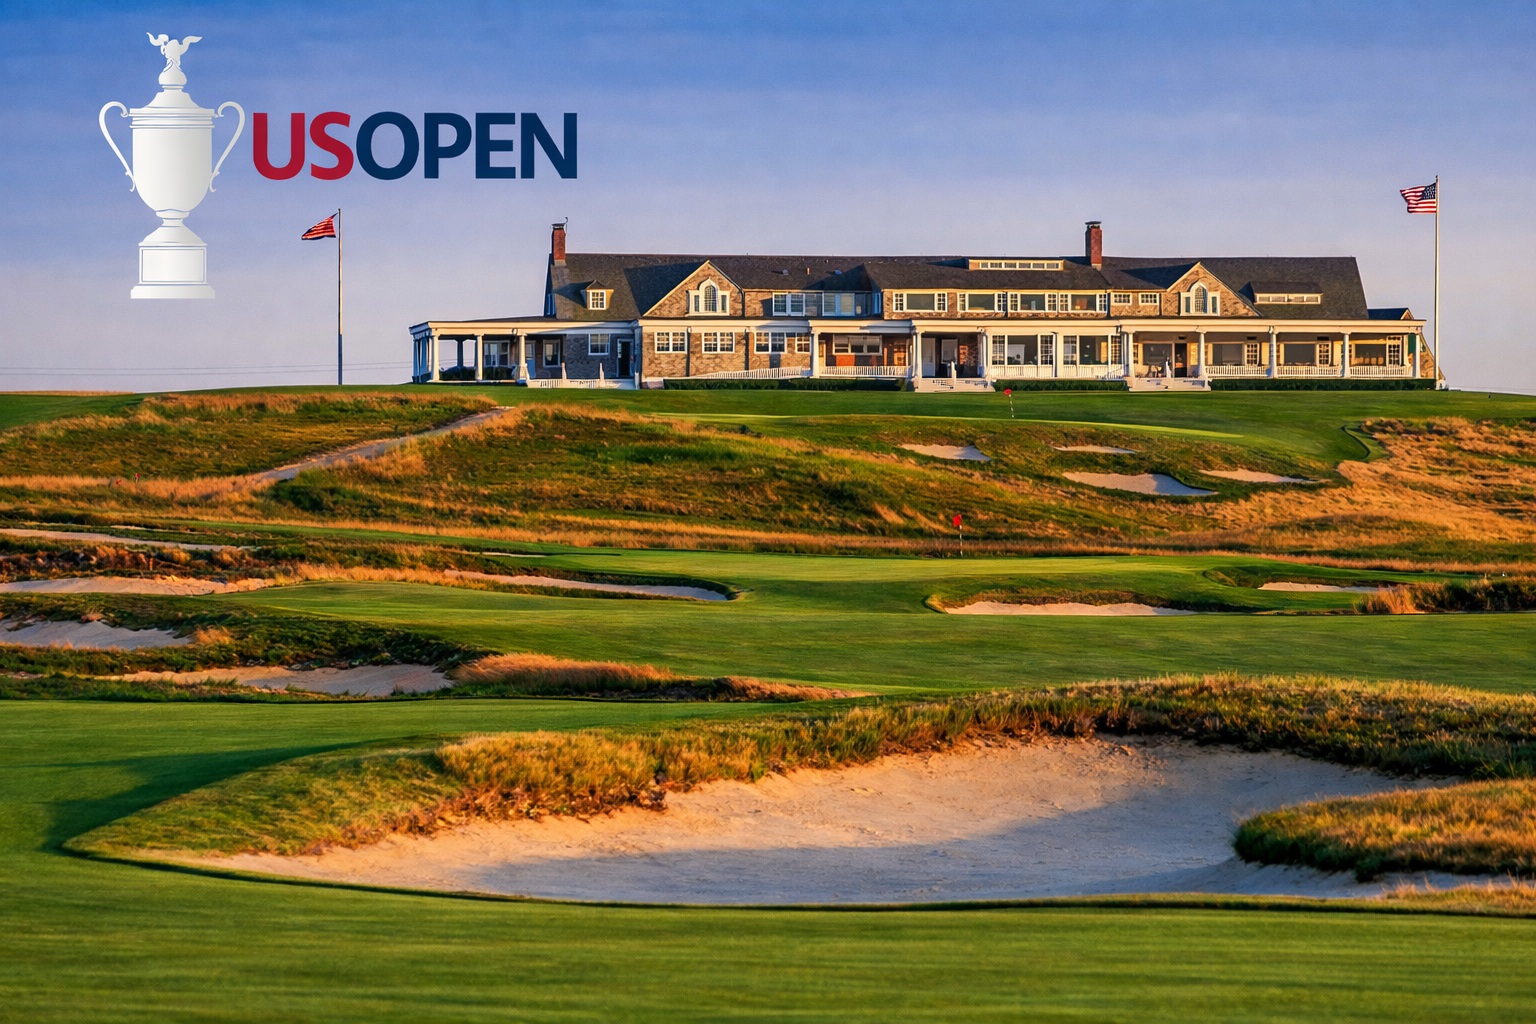
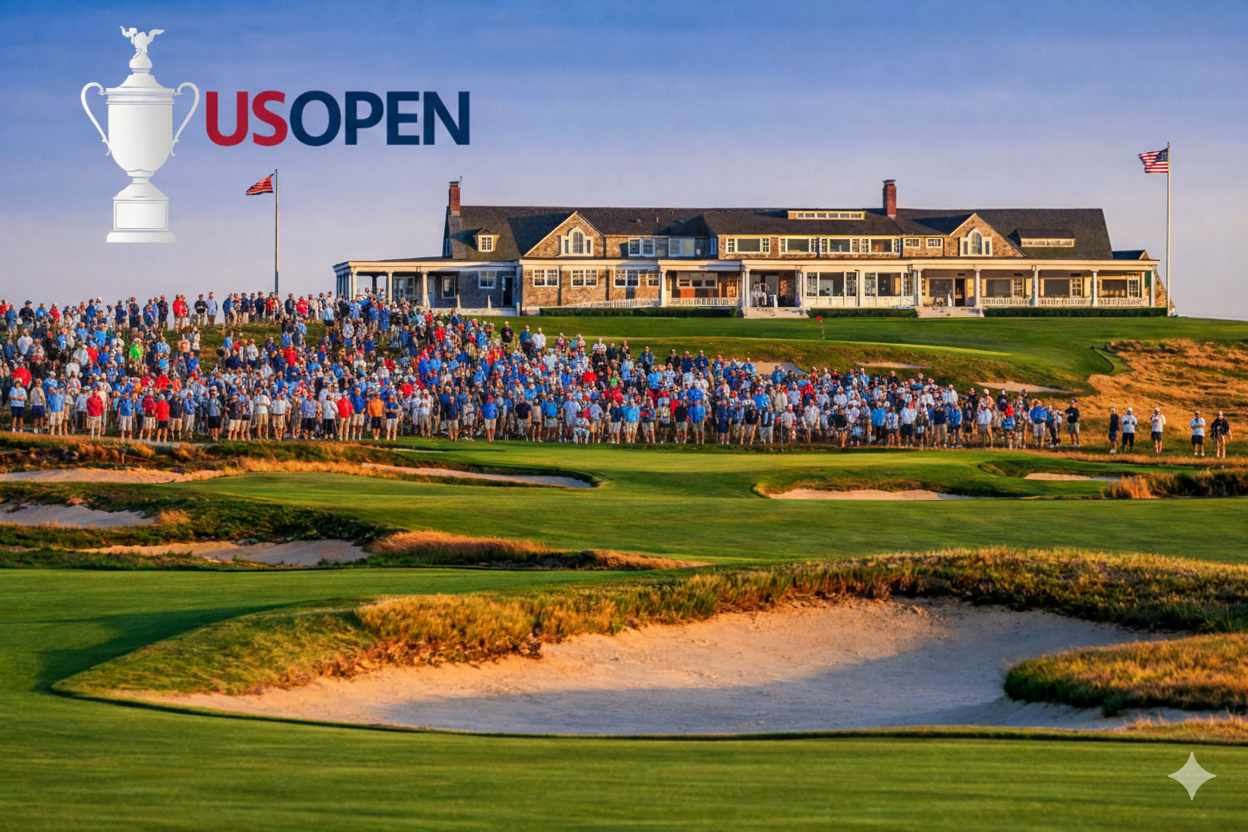
fix: update contact information heading and remove outdated phone number
Changed the heading from "Other Numbers" to "Free To Call From South Korea to USA" and removed the outdated phone number link from the contact page.

diff --git a/app/contact/page.tsx b/app/contact/page.tsx
@@ -139,15 +139,9 @@ export default async function ContactPage() {
                     className="font-semibold uppercase text-[#22333b] text-base sm:text-lg lg:text-[20px] tracking-wide mb-1"
                     style={{ fontFamily: "'sweet-sans-pro', sans-serif" }}
                   >
-                    Other Numbers
+                    Free To Call From South Korea to USA
                   </h3>
                   <div className="space-y-0.5">
-                    <a
-                      href="tel:1-213-214-3355"
-                      className="block text-[#735c38]/70 hover:text-[#735c38] text-sm sm:text-base lg:text-[20px] transition-colors font-semibold"
-                    >
-                      1-213-214-3355
-                    </a>
                     <a
                       href="tel:070-4517-5998"
                       className="block text-[#735c38]/70 hover:text-[#735c38] text-sm sm:text-base lg:text-[20px] transition-colors font-semibold"
